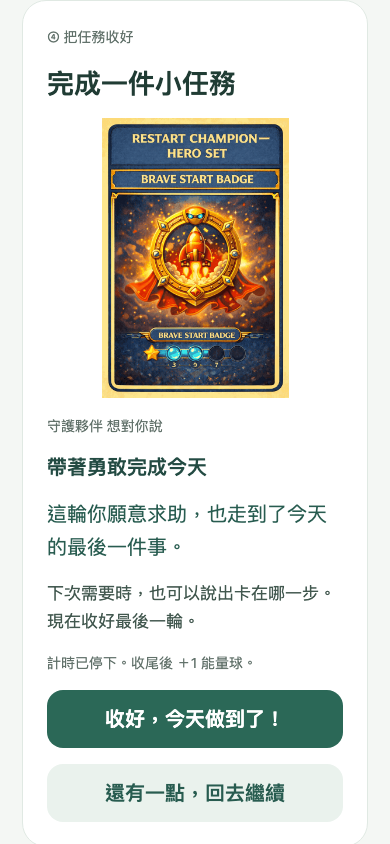
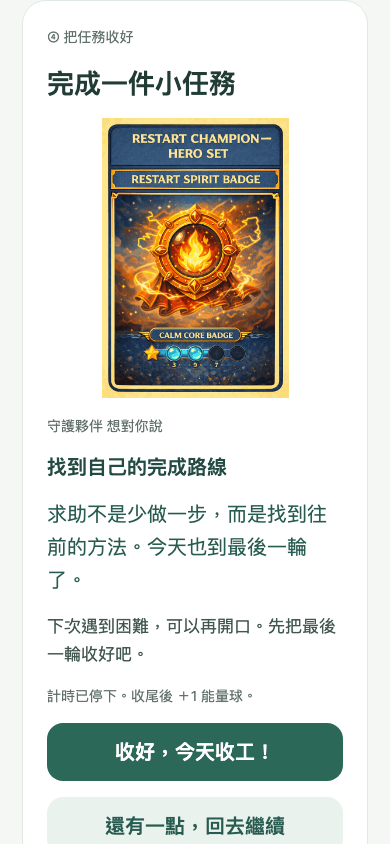
feat: add four original help cards [actor=bot approval=user:four-help-cards]

Changed region(s): [[0.1231, 0.5237, 0.8923, 1.0], [0.2769, 0.154, 0.7077, 0.4313]]

diff --git a/src/LightApp.tsx b/src/LightApp.tsx
@@ -2,15 +2,15 @@ import React, { useEffect, useRef, useState } from 'react';
 import { Image, Modal, Pressable, SafeAreaView, ScrollView, StyleSheet, Text, TextInput, View } from 'react-native';
 import AsyncStorage from '@react-native-async-storage/async-storage';
 import { loadPersistedAppState } from './lib/persistence';
-import { coreGuardianArchetypeImages, coreGuardianStageImages, timeChallenges, worldEvents, sopCards, badgeImages, guardianBeasts } from './data/holtonCatalog';
+import { coreGuardianArchetypeImages, coreGuardianStageImages, timeChallenges, worldEvents, sopCards, badgeImages, guardianBeasts, supportTools, transitionCards, activeSkills } from './data/holtonCatalog';
 import { chooseFinishEncouragement, finishEncouragements, type FinishContext } from './data/finishEncouragements';
 import type { PersistedAppState } from './types/holton';
 
 const KEY = 'holton-guardian-app::light-v1';
-type RecordItem = { id: string; title: string; at: string; minutes: number; cardId?: string; finishId?: string; helpUsed?: boolean };
+type RecordItem = { id: string; title: string; at: string; minutes: number; cardId?: string; finishId?: string; helpUsed?: boolean; supportUsed?: string[] };
 type WorldDraw = { id: string; reason: string; cardId?: string };
 type GuardianReceipt = { cardId: string; at: string; cost: number; source: 'legacy' | 'parent-restore' | 'sunday' };
-type State = { helpUsed?: boolean; finishId?: string; guardianCards?: GuardianReceipt[]; companionCardId?: string; starterRestoreAt?: string; dailyGoal?: number; rewardProgress?: number; dailyRewardDay?: string; draws?: WorldDraw[]; collection?: WorldDraw[]; version: 1; cardId?: string; title: string; minutes: number; orbs: number; phase: 'ready' | 'preparing' | 'active' | 'finishing' | 'done'; deadline: number | null; remaining: number; help: boolean; history: RecordItem[]; guardian: Partial<PersistedAppState> };
+type State = { supportCardId?: string; supportUsed?: string[]; breakDeadline?: number | null; helpUsed?: boolean; finishId?: string; guardianCards?: GuardianReceipt[]; companionCardId?: string; starterRestoreAt?: string; dailyGoal?: number; rewardProgress?: number; dailyRewardDay?: string; draws?: WorldDraw[]; collection?: WorldDraw[]; version: 1; cardId?: string; title: string; minutes: number; orbs: number; phase: 'ready' | 'preparing' | 'active' | 'finishing' | 'done'; deadline: number | null; remaining: number; help: boolean; history: RecordItem[]; guardian: Partial<PersistedAppState> };
 const day = (date: Date) => `${date.getFullYear()}-${date.getMonth()}-${date.getDate()}`;
 const initial = (old: Partial<PersistedAppState> | null): State => ({ version: 1, title: '', minutes: 5, orbs: typeof old?.orbs === 'number' ? old.orbs : 0, phase: 'ready', deadline: null, remaining: 300, help: false, history: [], guardian: { coreGuardianName: old?.coreGuardianName, coreGuardianId: old?.coreGuardianId, coreGuardianArchetype: old?.coreGuardianArchetype, coreGuardianStateVariant: old?.coreGuardianStateVariant, coreGuardianLevel: old?.coreGuardianLevel } });
 
@@ -18,6 +18,12 @@ const guardianCards = guardianBeasts.flatMap(beast => beast.stages.map((stage, i
   id: `${beast.id}:${index}`, beastId: beast.id, name: beast.name, vibe: beast.vibe, index, label: stage.label, cost: stage.cost,
   image: coreGuardianStageImages[beast.id as keyof typeof coreGuardianStageImages][(['stage1', 'stage2', 'stage3', 'stage4'] as const)[index]],
 })));
+const helpCards = [
+  { id: 'pause', title: '暫停卡', line: '我想先停一下。', guide: '先停住，不用急。準備好了，再回到原本那一步。', resume: '我準備好了，繼續', image: supportTools.find(card => card.id === 'time-freeze')!.imageSource },
+  { id: 'rest', title: '休息卡', line: '我想休息一下。', guide: '休息 2 分鐘，讓自己喘口氣。時間到只提醒，你準備好再回來。', resume: '休息好了，繼續', image: transitionCards.find(card => card.id === 'break-time')!.imageSource },
+  { id: 'energy', title: '加油卡', line: '我需要補充能量。', guide: '可以喝口水、伸展一下，或請大人說一句加油。選一個適合你的方式。', resume: '補充好了，繼續', image: supportTools.find(card => card.id === 'energy-boost')!.imageSource },
+  { id: 'breathe', title: '深呼吸卡', line: '我想先慢慢呼吸。', guide: '試試 3 次舒服的慢呼吸：輕輕吸氣，慢慢吐氣，不用憋氣。不用趕，照自己的節奏。', resume: '我準備好了，繼續', image: activeSkills.find(card => card.id === 'breather-1')!.imageSource },
+];
 const taipeiWeekday = (time: number) => new Intl.DateTimeFormat('en-US', { timeZone: 'Asia/Taipei', weekday: 'short' }).format(time);
 function importGuardianCards(old: Partial<PersistedAppState> | null): GuardianReceipt[] {
   return guardianCards.filter(card => {
@@ -109,6 +115,21 @@ export default function LightApp() {
     });
   }
   const drawnCard = worldEvents.find(card => card.id === pending?.cardId);
+  const helpCard = helpCards.find(card => card.id === state.supportCardId);
+  const breakRemaining = state.breakDeadline ? Math.max(0, Math.ceil((state.breakDeadline - now) / 1000)) : 0;
+  const usedHelpNames = (state.supportUsed ?? []).map(id => helpCards.find(card => card.id === id)?.title).filter(Boolean).join('、');
+  function openHelp(s: State): State {
+    if (s.phase !== 'active' || s.help) return s;
+    return { ...s, help: true, helpUsed: true, supportCardId: undefined, breakDeadline: null, remaining: s.deadline ? Math.max(0, Math.ceil((s.deadline - Date.now()) / 1000)) : s.remaining, deadline: null };
+  }
+  function selectHelp(s: State, id: string): State {
+    if (s.phase !== 'active' || !s.help || !helpCards.some(card => card.id === id)) return s;
+    return { ...s, supportCardId: id, supportUsed: [...new Set([...(s.supportUsed ?? []), id])], breakDeadline: id === 'rest' ? Date.now() + 120000 : null };
+  }
+  function resumeHelp(s: State): State {
+    if (s.phase !== 'active' || !s.help) return s;
+    return { ...s, help: false, supportCardId: undefined, breakDeadline: null, deadline: s.minutes === 0 ? null : Date.now() + s.remaining * 1000 };
+  }
   const finish = finishEncouragements.find(item => item.id === state.finishId) ?? finishEncouragements[0];
   const finishImage = finish.art === 'pack-up' || finish.art === 'finish-mode' ? sopCards.find(card => card.id === finish.art)!.imageSource : badgeImages[finish.art];
   function enterFinishing(s: State): State {
@@ -118,13 +139,13 @@ export default function LightApp() {
     const helped = !!(s.helpUsed || s.help);
     const context: FinishContext = daily ? helped ? 'daily-help' : 'daily' : helped ? 'help' : 'normal';
     const selected = chooseFinishEncouragement(context, s.history.map(item => item.finishId ?? '').filter(Boolean), s.finishId);
-    return { ...s, phase: 'finishing', finishId: selected.id, helpUsed: helped, remaining: s.deadline ? Math.max(0, Math.ceil((s.deadline - Date.now()) / 1000)) : s.remaining, deadline: null, help: false };
+    return { ...s, phase: 'finishing', finishId: selected.id, helpUsed: helped, remaining: s.deadline ? Math.max(0, Math.ceil((s.deadline - Date.now()) / 1000)) : s.remaining, deadline: null, help: false, supportCardId: undefined, breakDeadline: null };
   }
   function completeTask(s: State): State {
     if (s.phase !== 'finishing') return s;
     const at = new Date();
     const dateKey = day(at);
-    const history = [...s.history, { id: String(at.getTime()), title: s.title, at: at.toISOString(), minutes: s.minutes, cardId: s.cardId, finishId: s.finishId, helpUsed: s.helpUsed }];
+    const history = [...s.history, { id: String(at.getTime()), title: s.title, at: at.toISOString(), minutes: s.minutes, cardId: s.cardId, finishId: s.finishId, helpUsed: s.helpUsed, supportUsed: s.supportUsed }];
     const count = history.filter(item => day(new Date(item.at)) === dateKey).length;
     const progress = (s.rewardProgress ?? 0) + 1;
     const triple = progress >= 3;
@@ -161,7 +182,7 @@ export default function LightApp() {
         {state.phase === 'ready' && state.title ? <Text style={styles.caption}>目前任務：{state.title} · {durationLabel(state.minutes)}</Text> : null}
       </View>
       <View style={styles.card}><Text style={styles.section}>2 · 卡住時，這樣陪他說</Text><Text style={styles.quote}>「我在這裡。我們先做最小的一步，你想自己試，還是一起做？」</Text><Text style={styles.body}>時間到了也不用扣分。先看看需要幫忙，還是多一點時間。</Text></View>
-      <View style={styles.card}><Text style={styles.section}>3 · 今天完成 {today.length} 件事</Text>{today.length ? today.map(item => <View key={item.id} style={styles.record}><Text style={styles.body}>✓ {item.title}</Text><Text style={styles.caption}>{new Date(item.at).toLocaleTimeString('zh-TW', { hour: '2-digit', minute: '2-digit' })} · {durationLabel(item.minutes)}{item.cardId ? ` · ${timeChallenges.find(card => card.id === item.cardId)?.name || "任務卡"}` : ""} · ＋1 能量球{item.helpUsed ? ' · 有表達求助需要' : ''}</Text></View>) : <Text style={styles.body}>今天還沒有完成紀錄，慢慢來就好。</Text>}<Text style={styles.caption}>輕量版紀錄保存在這台裝置、這個瀏覽器；舊版資料保留。</Text></View>
+      <View style={styles.card}><Text style={styles.section}>3 · 今天完成 {today.length} 件事</Text>{today.length ? today.map(item => <View key={item.id} style={styles.record}><Text style={styles.body}>✓ {item.title}</Text><Text style={styles.caption}>{new Date(item.at).toLocaleTimeString('zh-TW', { hour: '2-digit', minute: '2-digit' })} · {durationLabel(item.minutes)}{item.cardId ? ` · ${timeChallenges.find(card => card.id === item.cardId)?.name || "任務卡"}` : ""} · ＋1 能量球{item.supportUsed?.length ? ` · ${item.supportUsed.map(id => helpCards.find(card => card.id === id)?.title).filter(Boolean).join('、')}` : item.helpUsed ? ' · 有表達求助需要' : ''}</Text></View>) : <Text style={styles.body}>今天還沒有完成紀錄，慢慢來就好。</Text>}<Text style={styles.caption}>輕量版紀錄保存在這台裝置、這個瀏覽器；舊版資料保留。</Text></View>
     </> : <>
       <View style={styles.scorePanel} accessibilityLiveRegion="polite"><Text style={styles.section}>我的可用能量球</Text><Text style={styles.score}>✦ {state.orbs}</Text><Text style={styles.body}>今天 ＋{today.length} 顆 · 每次完成 ＋1</Text><Text style={styles.caption}>守護獸兌換已用 {(state.guardianCards ?? []).filter(item => item.source === 'sunday').reduce((sum, item) => sum + item.cost, 0)} 點</Text><Text style={styles.section}>今日任務 {today.length} / {state.dailyGoal ?? 3} {today.length >= (state.dailyGoal ?? 3) ? '✓ 全完成' : ''}</Text><Text style={styles.body}>{'● '.repeat(state.rewardProgress ?? 0)}{'○ '.repeat(3 - (state.rewardProgress ?? 0))} 再完成 {3 - (state.rewardProgress ?? 0)} 次抽世界卡</Text><Text style={styles.caption}>今天全完成也能抽卡 · 已收藏 {state.collection?.length ?? 0} 張</Text></View>
       <View style={styles.companion}><Text style={styles.section}>{companion ? '今日守護夥伴' : '你的本命獸'}</Text><Image accessibilityLabel={companion ? `${companion.name} ${companion.label} 今日守護夥伴` : '陪伴你的本命獸'} source={companion?.image ?? guardianImage} style={companion ? styles.companionArt : styles.guardian} resizeMode="contain" /><Text style={styles.guardianName}>{companion ? `${companion.name} · ${companion.label}` : guardian.coreGuardianName || '你的本命獸'}</Text><Text style={styles.body}>我陪你，一次完成一件小事。</Text>{companion ? <Text style={styles.caption}>本命獸：{guardian.coreGuardianName || '你的本命獸'} · 身分保留</Text> : null}{button('我的守護獸收藏', () => setCollectionOpen(true), true)}</View>
@@ -177,7 +198,7 @@ export default function LightApp() {
           </Pressable>)}
         </ScrollView>
         <Text style={styles.body}>{selectedCard ? `${selectedCard.name} · ${durationLabel(state.minutes)}` : `目前設定：${durationLabel(state.minutes)}，也可以換一張卡。`}</Text>
-        {button('開始', () => void change(s => s.phase !== 'ready' ? s : ({ ...s, title: s.title || '完成一件小任務', phase: 'preparing', helpUsed: false, finishId: undefined, deadline: null, remaining: s.minutes * 60 })))}
+        {button('開始', () => void change(s => s.phase !== 'ready' ? s : ({ ...s, title: s.title || '完成一件小任務', phase: 'preparing', supportCardId: undefined, supportUsed: [], breakDeadline: null, helpUsed: false, finishId: undefined, deadline: null, remaining: s.minutes * 60 })))}
       </> : state.phase === 'preparing' ? <>
         <Image source={sopCards.find(card => card.id === 'task-starter')!.imageSource} accessibilityLabel="Task Starter 任務啟動卡" style={styles.ritualArt} resizeMode="contain" />
         <Text style={styles.section}>Task Starter · 任務啟動</Text><Text style={styles.quote}>先把需要的東西準備好。</Text><Text style={styles.body}>這次挑戰：{durationLabel(state.minutes)}。準備好再按，現在還沒有計時。</Text>
@@ -186,14 +207,27 @@ export default function LightApp() {
       </> : state.phase === 'finishing' ? <>
         <Image source={finishImage} accessibilityLabel={`${finish.title} 收尾鼓勵卡`} style={styles.ritualArt} resizeMode="contain" />
         <Text style={styles.caption}>{companion?.name || guardian.coreGuardianName || '守護夥伴'} 想對你說</Text>
-        <Text style={styles.section}>{finish.title}</Text><Text style={styles.quote}>{finish.line}</Text><Text style={styles.body}>{finish.reminder}</Text><Text style={styles.caption}>計時已停下。收尾後 ＋1 能量球。</Text>
+        <Text style={styles.section}>{finish.title}</Text>{usedHelpNames ? <Text style={styles.caption}>這輪你選了{usedHelpNames}，表達自己的需要也是重要的一步。</Text> : null}<Text style={styles.quote}>{finish.line}</Text><Text style={styles.body}>{finish.reminder}</Text><Text style={styles.caption}>計時已停下。收尾後 ＋1 能量球。</Text>
         {button(finish.button, () => void change(completeTask))}
         {button('還有一點，回去繼續', () => void change(s => s.phase !== 'finishing' ? s : ({ ...s, phase: 'active', deadline: s.minutes === 0 ? null : Date.now() + s.remaining * 1000, help: false })), true)}
       </> : state.phase === 'active' ? <>
-        {selectedCard ? <Image source={selectedCard.imageSource} accessibilityLabel={selectedCard.name} style={styles.activeCardArt} resizeMode="contain" /> : null}
-        {state.minutes === 0 ? <Text style={styles.section}>不限時，慢慢完成就好。</Text> : <Text style={styles.timer}>{String(Math.floor(remaining / 60)).padStart(2, '0')}:{String(remaining % 60).padStart(2, '0')}</Text>}
+        {selectedCard && !state.help ? <Image source={selectedCard.imageSource} accessibilityLabel={selectedCard.name} style={styles.activeCardArt} resizeMode="contain" /> : null}
+        {state.minutes === 0 ? <Text style={styles.section}>不限時，慢慢完成就好。</Text> : <Text style={state.help ? styles.section : styles.timer}>{String(Math.floor(remaining / 60)).padStart(2, '0')}:{String(remaining % 60).padStart(2, '0')}</Text>}
         <Text style={styles.body}>{state.help ? '先停一下，我們一起來。' : state.minutes !== 0 && remaining === 0 ? '時間到了。還沒做好也沒關係，可以慢慢完成。' : '照自己的速度來。'}</Text>
-        {state.help ? <><Text style={styles.quote}>「我在這裡。我們先做最小的一步，好嗎？」</Text>{button('我準備好了，繼續', () => void change(s => ({ ...s, help: false, deadline: s.minutes === 0 ? null : Date.now() + s.remaining * 1000 })), true)}</> : button('我需要幫忙', () => void change(s => ({ ...s, help: true, helpUsed: true, remaining: s.deadline ? Math.max(0, Math.ceil((s.deadline - Date.now()) / 1000)) : s.remaining, deadline: null })), true)}
+        {state.help ? <>
+          <Text style={styles.section}>{helpCard ? helpCard.title : '你現在需要哪一張卡？'}</Text><Text style={styles.caption}>任務已停表 · 不扣點、不減少獎勵</Text>
+          {helpCard ? <>
+            <Image source={helpCard.image} accessibilityLabel={helpCard.title} style={styles.ritualArt} resizeMode="contain" />
+            <Text style={styles.quote}>{helpCard.line}</Text><Text style={styles.body}>{helpCard.guide}</Text>
+            {helpCard.id === 'rest' ? <><Text style={styles.timer}>{String(Math.floor(breakRemaining / 60)).padStart(2, '0')}:{String(breakRemaining % 60).padStart(2, '0')}</Text><Text style={styles.body}>{breakRemaining === 0 ? '休息時間到了，準備好了再繼續；任務仍然暫停。' : '這是休息時間，任務時間不會減少。'}</Text></> : null}
+            {button(helpCard.resume, () => void change(resumeHelp))}
+            {button('換一張幫忙卡', () => void change(s => s.phase !== 'active' || !s.help ? s : ({ ...s, supportCardId: undefined, breakDeadline: null })), true)}
+          </> : <>
+            <View style={styles.helpGrid}>{helpCards.map(card => <Pressable key={card.id} accessibilityRole="button" accessibilityLabel={`選擇${card.title}`} disabled={saving} onPress={() => void change(s => selectHelp(s, card.id))} style={[styles.helpChoice, saving && styles.disabled]}><Image source={card.image} accessibilityLabel={card.title} style={styles.helpArt} resizeMode="contain" /><Text style={styles.cardName}>{card.title}</Text><Text style={styles.caption}>{card.line}</Text></Pressable>)}</View>
+            {button('我準備好了，繼續', () => void change(resumeHelp), true)}
+          </>}
+        </> : button('我需要幫忙', () => void change(openHelp), true)}
+
         {button('完成', () => void change(enterFinishing))}
       </> : <><Text style={styles.section}>{finish.title}</Text><Text style={styles.quote}>你完成了，也把這一輪收好了。每一小步都值得被看見。</Text><Text style={styles.score}>＋1 ✦</Text><Text style={styles.section}>現在共有 {state.orbs} 顆能量球！</Text><Text style={styles.body}>{state.title}</Text><Text style={styles.caption}>這一輪結束了。休息一下，準備好再選卡。</Text>{button('再選一張任務卡', () => void change(s => ({ ...s, phase: 'ready', deadline: null, help: false, remaining: s.minutes * 60 })), true)}</>}
       </View>
@@ -229,6 +263,7 @@ export default function LightApp() {
   </SafeAreaView>;
 }
 const styles = StyleSheet.create({
+  helpGrid: { flexDirection: 'row', flexWrap: 'wrap', gap: 10 }, helpChoice: { flexBasis: '45%', flexGrow: 1, borderRadius: 14, padding: 8, borderWidth: 1, borderColor: '#c9d9cf', alignItems: 'center', gap: 4, backgroundColor: '#f4f7f4' }, helpArt: { width: '100%', height: 155 },
   companionArt: { width: 180, height: 250 }, companionRow: { flexDirection: 'row', alignItems: 'center', gap: 10 }, companionThumb: { width: 48, height: 66 },
   ritualArt: { width: '100%', height: 280 },
   scorePanel: { backgroundColor: '#fff4cc', borderRadius: 24, padding: 22, gap: 8, alignItems: 'center' }, score: { fontSize: 48, fontWeight: '900', color: '#8b651d', textAlign: 'center' },

diff --git a/reports/light-v1/REVIEW.md b/reports/light-v1/REVIEW.md
@@ -66,3 +66,9 @@ Checks: typecheck and component ESLint pass; Expo export passes. Browser 390×84
 - Context-specific cleanup button still calls same guarded +1 settlement and existing world draw logic. Daily context only at target crossing, not all subsequent rounds. Core identity, companion, collection and exchange unchanged.
 - Passed TypeScript, component/data lint, export, 200 selector cases across contexts, browser checks: variety, no early reward, stable reload/back, help resume persistence, next-round reset, combined daily/help, context upgrade after returning, fixed point rewards, merged milestone draw, no repeated daily reward after goal edit, mobile width. finish-help.png / finish-daily-help.png visually inspected.
 - Public release 3158791 built and HTML references expected export. Same contextual browser scenarios passed on public URL in isolated storage: normal/help/daily/combined, persisted choice and help, unchanged points/world awards. No user browser data accessed.
+
+## Four original help cards — 2026-10-18
+- User chose existing four cards only: Time Freeze, Break Time-II, Energy Boost, Breather Mode-I. No new companion-help card. Four-card grid shown immediately after help pauses the task.
+- Selected card shows original art and specific guide. Rest starts separate persisted 120-second deadline; expiry only displays reminder, never resumes task. Breath suggests three comfortable slow breaths without holding breath or mandatory countdown. Every option resumes only by explicit button; user may resume early or change card.
+- Help selection IDs preserved across reload and saved with completed history; visible in finish context and parent log. Deduplicated per round, reset on new round. No fees, bonuses, penalties, automatic completion or automatic timer restart. Timed remaining seconds and untimed null deadline preserved.
+- TypeScript, component lint, web export passed. Browser verified exactly four options, each selection/resume, pause and rest reload, virtual rest expiry, reminder without resume, breath without deadline, switch card cleanup, untimed, per-round reset, single +1 and history, no mobile overflow. Existing 20-message/world-reward regression also passed. help-menu.png inspected.
